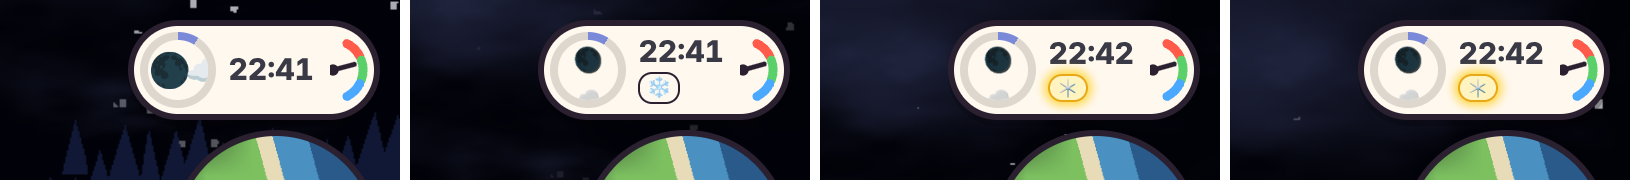
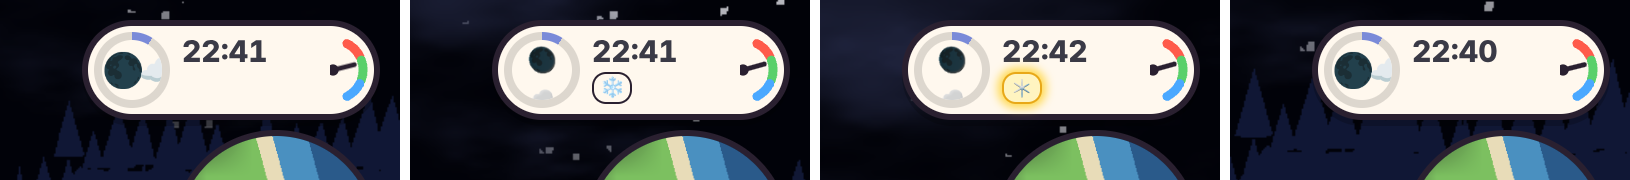
wip(newgame): v5.23 the time stays put (fixed status row + width)
Claude-Session: https://claude.ai/code/session_01GPWeNez232vT9ersFNk7wt

diff --git a/newgame/index.html b/newgame/index.html
@@ -695,7 +695,7 @@ body.l4 .gwi.on{border-color:#ffd23f;box-shadow:0 0 0 4px #ffd23f88}
 .wcol{display:flex;flex-direction:column;align-items:center;line-height:1}.wcol b{font:800 15px/1.05 system-ui,sans-serif;color:#3a3a46;font-variant-numeric:tabular-nums}.wcol svg{display:block}
 #hTemp.wbox.cold{box-shadow:0 0 0 3px #4aa8ff99,0 3px 0 #0003}#hTemp.wbox.hot{box-shadow:0 0 0 3px #ff5a4a99,0 3px 0 #0003}#hClk{display:none!important}
 .wtop{display:flex;align-items:center;gap:3px}.wbox #resist{margin:0;flex-wrap:nowrap;gap:2px}.wbox #resist .rs{font-size:10px;line-height:14px;padding:0 3px;border-width:1.5px;border-radius:7px}.wbox #resist .rs.glow{box-shadow:0 0 5px 2px #ffd84a}   /* v5.23 (designer) the temperature status sits in the weather box, on the lower line beside the dial */
-#hTemp.wbox{position:relative;padding-right:30px!important;min-height:44px}.wbox #hGauge{position:absolute;right:0;top:50%;width:22px;height:44px;transform:translateY(-50%)}.wbox #hGauge svg{display:block}.wbox .wcol{align-items:flex-start;gap:2px}.wbox #resist{min-height:0}   /* v5.23 the dial hugs the round right end */
+#hTemp.wbox{position:relative;padding-right:30px!important;min-height:44px}.wbox #hGauge{position:absolute;right:0;top:50%;width:22px;height:44px;transform:translateY(-50%)}.wbox #hGauge svg{display:block}.wbox .wcol{align-items:flex-start;gap:2px}.wbox #resist{min-height:16px;display:flex!important}.wbox .wcol{min-width:66px}   /* v5.23 the dial hugs the round right end */
 </style></head>
 <body>
 <canvas id="cv"></canvas>
